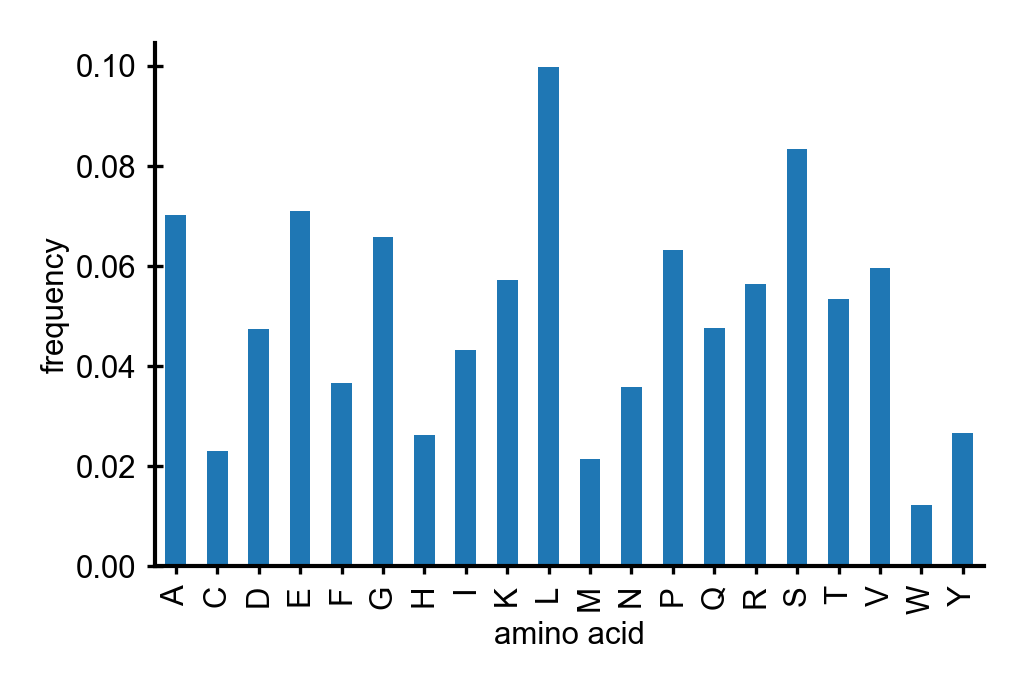
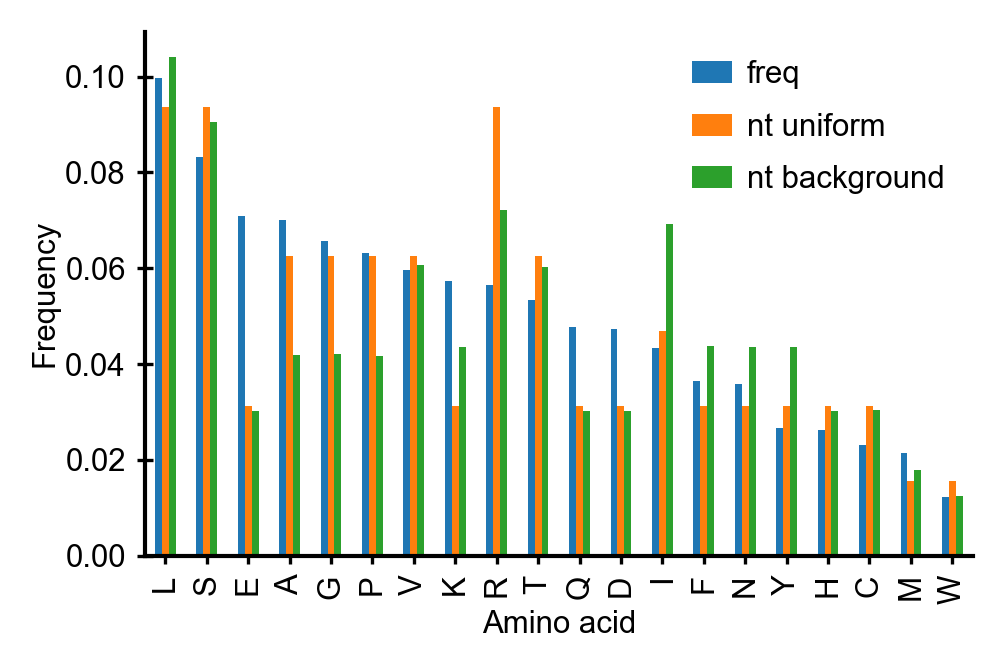
docs updated

Changed region(s): [[0.0308, 0.0598, 0.9871, 0.9567]]

diff --git a/docs/code/aafreqs/plot-aafreqs.py b/docs/code/aafreqs/plot-aafreqs.py
@@ -1,20 +1,35 @@
-import sys
-sys.path.append('..')
 import numpy as np
 import pandas as pd
 import matplotlib.pyplot as plt
 plt.style.use('../peptidome.mplstyle')
 
+import sys
+sys.path.append('..')
 from lib import *
 
-df = counter_to_df(count_kmers_proteome(human, 1), norm=True)
+df = Counter(human, 1).to_df(norm=True, clean=True)
 df = df.set_index('seq')
-df = df.sort_index()
+df = df.sort_values(by='freq', ascending=False)
 
+seqtk_columns = 'chr', 'length', '#A', '#C', '#G', "#T"
+composition = pd.read_csv('data/composition.tsv', sep='\t',
+            usecols=list(range(len(seqtk_columns))),
+            names=seqtk_columns, index_col=0)
+pcomp = np.array([composition[seqtk_columns[i]].sum() for i in range(2, len(seqtk_columns))], dtype=np.float)
+pcomp /= np.sum(pcomp)
+print(pcomp)
+
+dfm = df.copy(deep=True)
 fig, ax = plt.subplots()
-df.plot(kind='bar', ax=ax, legend=False)
-ax.set_xlabel('amino acid')
-ax.set_ylabel('frequency')
+for name, p in [('uniform', np.ones(4)), ('background', pcomp)]:
+    p /= np.sum(p)
+    frequencies = ntfreq_to_aafreq(p)
+    df_theory = pd.DataFrame.from_dict(frequencies, orient='index', columns=['nt '+name])
+    dfm = dfm.merge(df_theory, left_index=True, right_index=True)
+dfm.sort_values(by='freq', inplace=True, ascending=False)
+dfm.plot(kind='bar', ax=ax)
+ax.set_xlabel('Amino acid')
+ax.set_ylabel('Frequency')
 fig.tight_layout()
-plt.show()
 fig.savefig('main.png')
+plt.show()

diff --git a/docs/_posts/2019-06-19-aafreqs.md b/docs/_posts/2019-06-19-aafreqs.md
@@ -27,27 +27,6 @@ from lib import *
 
 
 ```python
-codon_map = {"UUU":"F", "UUC":"F", "UUA":"L", "UUG":"L",
-    "UCU":"S", "UCC":"S", "UCA":"S", "UCG":"S",
-    "UAU":"Y", "UAC":"Y", "UAA":"STOP", "UAG":"STOP",
-    "UGU":"C", "UGC":"C", "UGA":"STOP", "UGG":"W",
-    "CUU":"L", "CUC":"L", "CUA":"L", "CUG":"L",
-    "CCU":"P", "CCC":"P", "CCA":"P", "CCG":"P",
-    "CAU":"H", "CAC":"H", "CAA":"Q", "CAG":"Q",
-    "CGU":"R", "CGC":"R", "CGA":"R", "CGG":"R",
-    "AUU":"I", "AUC":"I", "AUA":"I", "AUG":"M",
-    "ACU":"T", "ACC":"T", "ACA":"T", "ACG":"T",
-    "AAU":"N", "AAC":"N", "AAA":"K", "AAG":"K",
-    "AGU":"S", "AGC":"S", "AGA":"R", "AGG":"R",
-    "GUU":"V", "GUC":"V", "GUA":"V", "GUG":"V",
-    "GCU":"A", "GCC":"A", "GCA":"A", "GCG":"A",
-    "GAU":"D", "GAC":"D", "GAA":"E", "GAG":"E",
-    "GGU":"G", "GGC":"G", "GGA":"G", "GGG":"G",}
-```
-
-
-```python
-fluA = datadir + proteomes.loc['InfluenzaA']['path']
 df = counter_to_df(count_kmers_proteome(human, 1), norm=True)
 df = df.set_index('seq')
 df = df.sort_index()
@@ -55,53 +34,24 @@ df = df.sort_index()
 
 
 ```python
-nt_to_ind = {
-    'A' : 0,
-    'C' : 1,
-    'G' : 2,
-    'U' : 3 
-    }
-def calc_frequencies(p):
-    frequencies = {aa:0 for aa in df.index}
-    for nts, aa in codon_map.items():
-        if not aa == 'STOP':
-            frequencies[aa] += np.prod([p[nt_to_ind[nt]] for nt in nts])
-    return frequencies
+seqtk_columns = 'chr', 'length', '#A', '#C', '#G', "#T"
+composition = pd.read_csv('data/composition.tsv', sep='\t',
+            usecols=list(range(len(seqtk_columns))),
+            names=seqtk_columns, index_col=0)
+#composition[composition['length'] > 10]
+pcomp = np.array([composition[seqtk_columns[i]].sum() for i in range(2, len(seqtk_columns))], dtype=np.float)
+pcomp /= np.sum(pcomp)
+print(pcomp)
 ```
 
-
-```python
-p = [0.27, 0.23, 0.23, 0.27]
-#p = np.ones(4)
-p /= np.sum(p)
-print(np.sum(p))
-frequencies = calc_frequencies(p)
-df_theory = pd.DataFrame.from_dict(frequencies, orient='index', columns=['freq_theory'])
-dfm = df.merge(df_theory, left_index=True, right_index=True)
-dfm.plot(kind='bar')
-
-calc_jsd(dfm['freq'], dfm['freq_theory'])
-```
-
-    1.0
-
-
-
-
-
-    0.01109111327904973
-
-
-
-
-![png](notebook_files/geneticbias_4_2.png)
+    [0.29486334 0.20417875 0.2052049  0.29575302]
 
 
 
 ```python
 def fun(p, epsilon = 1e-8):
     def f(p):
-        frequencies = calc_frequencies(p)
+        frequencies = ntfreq_to_aafreq(p)
         df_theory = pd.DataFrame.from_dict(frequencies, orient='index', columns=['freq_theory'])
         dfm = df.merge(df_theory, left_index=True, right_index=True)
         return calc_jsd(dfm['freq'], dfm['freq_theory'])
@@ -113,8 +63,8 @@ res
 
 
 
-           x: array([0.29563726, 0.21821714, 0.2498734 , 0.23627219])
-         fun: 0.008641217018279268
+           x: array([0.29563727, 0.21821714, 0.2498734 , 0.23627219])
+         fun: 0.008641217018279402
          nit: 100
      success: True
 
@@ -122,7 +72,7 @@ res
 
 
 ```python
-frequencies = calc_frequencies(res.x)
+frequencies = ntfreq_to_aafreq(res.x)
 df_theory = pd.DataFrame.from_dict(frequencies, orient='index', columns=['freq_theory'])
 dfm = df.merge(df_theory, left_index=True, right_index=True)
 dfm.plot(kind='scatter', x='freq_theory', y='freq')
@@ -131,12 +81,12 @@ dfm.plot(kind='scatter', x='freq_theory', y='freq')
 
 
 
-    <matplotlib.axes._subplots.AxesSubplot at 0x7f507d8572b0>
+    <matplotlib.axes._subplots.AxesSubplot at 0x7f837c6642e8>
 
 
 
 
-![png](notebook_files/geneticbias_6_1.png)
+![png](notebook_files/geneticbias_4_1.png)
 
 
 
@@ -146,26 +96,41 @@ dfm.plot(kind='scatter', x='freq_theory', y='freq')
 #### plot-aafreqs.py
 
 ```python
-import sys
-sys.path.append('..')
 import numpy as np
 import pandas as pd
 import matplotlib.pyplot as plt
 plt.style.use('../peptidome.mplstyle')
 
+import sys
+sys.path.append('..')
 from lib import *
 
-df = counter_to_df(count_kmers_proteome(human, 1), norm=True)
+df = Counter(human, 1).to_df(norm=True, clean=True)
 df = df.set_index('seq')
-df = df.sort_index()
+df = df.sort_values(by='freq', ascending=False)
 
+seqtk_columns = 'chr', 'length', '#A', '#C', '#G', "#T"
+composition = pd.read_csv('data/composition.tsv', sep='\t',
+            usecols=list(range(len(seqtk_columns))),
+            names=seqtk_columns, index_col=0)
+pcomp = np.array([composition[seqtk_columns[i]].sum() for i in range(2, len(seqtk_columns))], dtype=np.float)
+pcomp /= np.sum(pcomp)
+print(pcomp)
+
+dfm = df.copy(deep=True)
 fig, ax = plt.subplots()
-df.plot(kind='bar', ax=ax, legend=False)
-ax.set_xlabel('amino acid')
-ax.set_ylabel('frequency')
+for name, p in [('uniform', np.ones(4)), ('background', pcomp)]:
+    p /= np.sum(p)
+    frequencies = ntfreq_to_aafreq(p)
+    df_theory = pd.DataFrame.from_dict(frequencies, orient='index', columns=['nt '+name])
+    dfm = dfm.merge(df_theory, left_index=True, right_index=True)
+dfm.sort_values(by='freq', inplace=True, ascending=False)
+dfm.plot(kind='bar', ax=ax)
+ax.set_xlabel('Amino acid')
+ax.set_ylabel('Frequency')
 fig.tight_layout()
-plt.show()
 fig.savefig('main.png')
+plt.show()
 
 ```
 #### bokehplot.py
